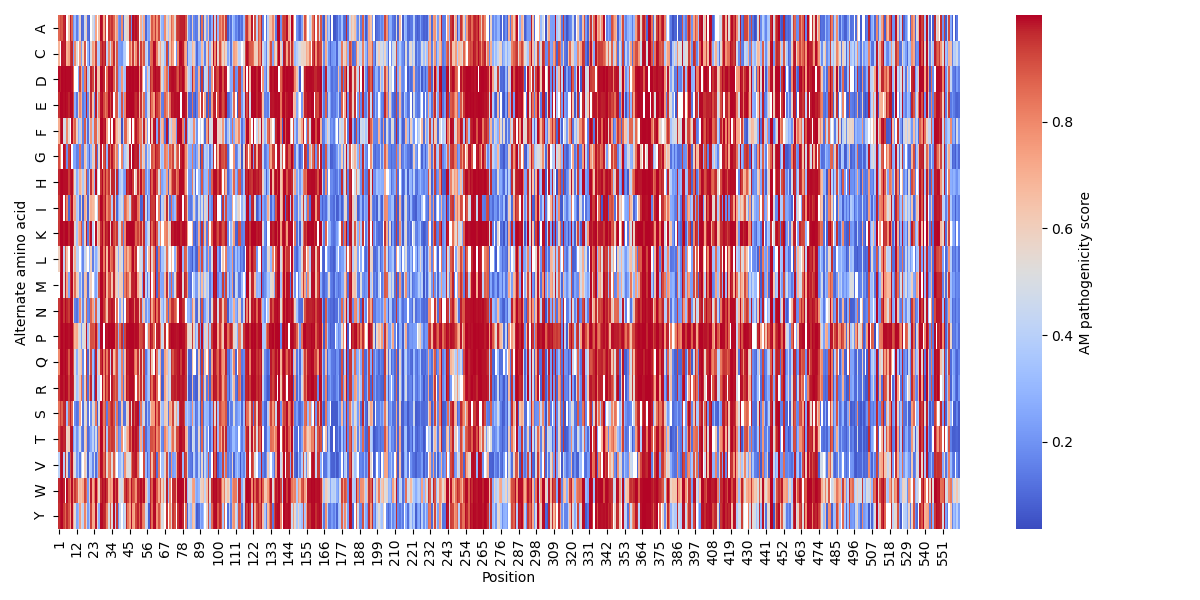
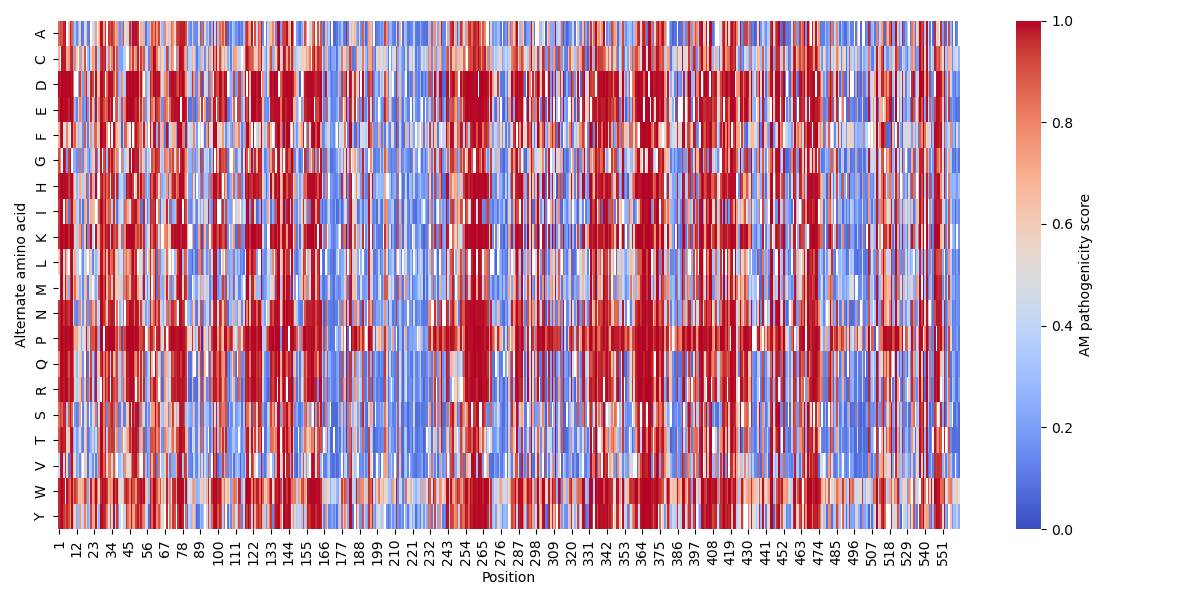
fix heatmap scale

diff --git a/workflow/scripts/plot_aminoacid_heatmap.py b/workflow/scripts/plot_aminoacid_heatmap.py
@@ -19,7 +19,7 @@ heatmap_data = data.pivot(index="Amino Acid", columns="Position", values="Score"
 
 # Create the heatmap using Seaborn
 plt.figure(figsize=(12, 6))
-heatmap = sns.heatmap(heatmap_data, cmap="coolwarm", annot=False, fmt=".2f", cbar_kws={'label': 'AM pathogenicity score'})
+sns.heatmap(heatmap_data, cmap="coolwarm", annot=False, fmt=".2f", cbar_kws={'label': 'AM pathogenicity score'}, vmin=0, vmax=1)
 plt.xlabel("Position")
 plt.ylabel("Alternate amino acid")
 plt.tight_layout()
